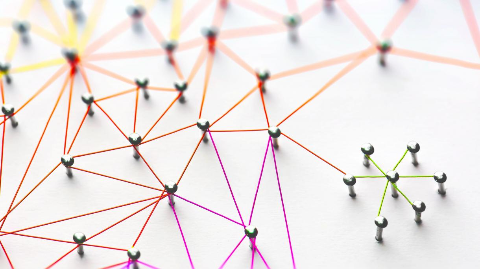
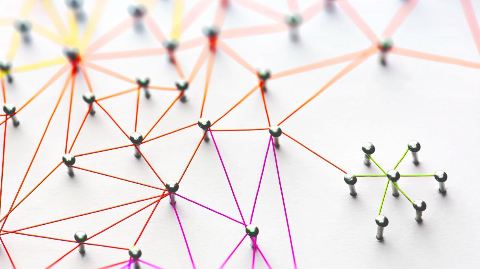
data: update content

diff --git a/content/antifeminismus-begegnen-demokratie-staerken.md b/content/antifeminismus-begegnen-demokratie-staerken.md
@@ -3,13 +3,16 @@ identifier = "antifeminismus-begegnen-demokratie-staerken"
 type = "event"
 title = "Antifeminismus begegnen –Demokratie stärken"
 subtitle = "Netzwerktagung"
-image = "https://calendar.boell.de/sites/default/files/styles/16d9_large/public/2022-08/NWT%202022_Kalender_Bild_ACHTUNG%20LIZENZ_Urheber_in%20optimarc-slash-shutterstock_All%20rights%20reserved_cropped.jpg?h=ed9b6fcf&itok=YaPKYHcq"
+image = "https://calendar.boell.de/sites/default/files/styles/16d9_large/public/2022-09/NWT22_Bild_erweiterte%20LIZENZ_Urheber_in%20optimarc-slash-shutterstock_All%20rights%20reserved_crop.jpg?h=3795e77a&itok=3WtRmjGS"
 start_date = "2022-10-17T09:30:00.000"
 end_date = "2022-10-17T18:00:00.000"
 category = "Tagung"
 url = "https://calendar.boell.de/de/event/antifeminismus-begegnen-demokratie-staerken"
-updated = "2022-09-07T17:19:23.000"
+updated = "2022-09-19T23:26:25.000"
 image_bucket = "https://storage.googleapis.com/fem-readup.appspot.com/antifeminismus-begegnen-demokratie-staerken.webp"
+source = "Heinrich Böll Stiftung"
+organizer = "Gunda-Werner-Institut für Feminismus und Geschlechterdemokratie"
 languages = ["Deutsch","Deutsche Gebärdensprache (DGS)"]
 [contact]
+[location]
 +++

diff --git a/content/if-i-cant-abort-its-not-my-revolution-feministische-kaempfe-lateinamerika.md b/content/if-i-cant-abort-its-not-my-revolution-feministische-kaempfe-lateinamerika.md
@@ -1,0 +1,16 @@
++++
+identifier = "if-i-cant-abort-its-not-my-revolution-feministische-kaempfe-lateinamerika"
+source = "Heinrich Böll Stiftung"
+url = "https://calendar.boell.de/de/event/if-i-cant-abort-its-not-my-revolution-feministische-kaempfe-lateinamerika"
+type = "event"
+title = "“If I can’t abort, it’s not my revolution” - Feministische Kämpfe in Lateinamerika"
+subtitle = "Vortrag und Diskussion mit Judith Goetz"
+start_date = "2022-09-27T19:00:00.000"
+end_date = "2022-09-27T21:30:00.000"
+category = "Vortrag"
+organizer = "Landesstiftung Sachsen (Weiterdenken)"
+updated = "2022-09-19T23:26:17.000"
+languages = []
+[contact]
+[location]
++++

diff --git a/content/das-netz-wird-weiblich.md b/content/das-netz-wird-weiblich.md
@@ -6,10 +6,13 @@ category = "Fachtagung"
 url = "https://calendar.boell.de/de/event/das-netz-wird-weiblich"
 identifier = "das-netz-wird-weiblich"
 type = "event"
-updated = "2022-09-07T17:19:25.000"
+updated = "2022-09-19T23:26:27.000"
 subtitle = "7. Netzpolitischer Fachtag"
 image = "https://calendar.boell.de/sites/default/files/styles/16d9_large/public/2022-09/VA%20Bild%20Netzfeminismus%20-%20pexels.jpg?h=43b93a8e&itok=5EIoE6mm"
 image_bucket = "https://storage.googleapis.com/fem-readup.appspot.com/das-netz-wird-weiblich.webp"
+source = "Heinrich Böll Stiftung"
+organizer = "Landesstiftung Thüringen"
 languages = ["Deutsch"]
 [contact]
+[location]
 +++

diff --git a/content/abortion-across-borders-abortion-without-borders.md b/content/abortion-across-borders-abortion-without-borders.md
@@ -1,0 +1,16 @@
++++
+identifier = "abortion-across-borders-abortion-without-borders"
+source = "Heinrich Böll Stiftung"
+url = "https://calendar.boell.de/de/event/abortion-across-borders-abortion-without-borders"
+type = "event"
+title = "ABORTION ACROSS BORDERS – ABORTION WITHOUT BORDERS"
+subtitle = "Internationales Podium zu transnationalen Abtreibungsreisen und zu grenzenloser Solidarität"
+start_date = "2022-09-30T18:00:00.000"
+end_date = "2022-09-30T20:00:00.000"
+category = "Veranstaltung"
+organizer = "Landesstiftung Sachsen (Weiterdenken)"
+updated = "2022-09-19T23:26:18.000"
+languages = []
+[contact]
+[location]
++++

diff --git a/content/demokratie-braucht-feminismus-antifeminismus-online-entgegentreten-11.md b/content/demokratie-braucht-feminismus-antifeminismus-online-entgegentreten-11.md
@@ -7,8 +7,11 @@ category = "Online-Seminar"
 url = "https://calendar.boell.de/de/event/demokratie-braucht-feminismus-antifeminismus-online-entgegentreten-11"
 identifier = "demokratie-braucht-feminismus-antifeminismus-online-entgegentreten-11"
 type = "event"
-updated = "2022-09-07T17:19:34.000"
+updated = "2022-09-19T23:26:35.000"
 image_bucket = "https://storage.googleapis.com/fem-readup.appspot.com/demokratie-braucht-feminismus-antifeminismus-online-entgegentreten-11.webp"
+source = "Heinrich Böll Stiftung"
+organizer = "GreenCampus"
 languages = ["Deutsch"]
 [contact]
+[location]
 +++

diff --git a/content/sonja-eismann-moments-and-movements-indigene-feminismen.md b/content/sonja-eismann-moments-and-movements-indigene-feminismen.md
@@ -7,9 +7,11 @@ category = "Lesung und Gespräch"
 url = "https://calendar.boell.de/de/event/sonja-eismann-moments-and-movements-indigene-feminismen"
 identifier = "sonja-eismann-moments-and-movements-indigene-feminismen"
 type = "event"
-updated = "2022-09-07T17:19:31.000"
+updated = "2022-09-19T23:26:33.000"
 subtitle = "Leinwandlesung und Gespräch"
 image_bucket = "https://storage.googleapis.com/fem-readup.appspot.com/sonja-eismann-moments-and-movements-indigene-feminismen.webp"
+source = "Heinrich Böll Stiftung"
 languages = ["Deutsch"]
 [contact]
+[location]
 +++

diff --git a/content/digitales-bundesfachseminar-zum-thema-klima-gerechtigkeit-genderperspektiven-für-eine-nachhaltige-zukunft.md b/content/digitales-bundesfachseminar-zum-thema-klima-gerechtigkeit-genderperspektiven-für-eine-nachhaltige-zukunft.md
@@ -5,7 +5,10 @@ end_date = "2022-10-14T18:00:00.000"
 url = "https://www.landesfrauenrat-berlin.de/veranstaltungen-in-berlin/?event_id1=6152"
 identifier = "digitales-bundesfachseminar-zum-thema-klima-gerechtigkeit-genderperspektiven-für-eine-nachhaltige-zukunft"
 type = "event"
-updated = "2022-09-18T21:33:13.000"
+updated = "2022-09-19T23:26:46.000"
+source = "Landesfrauenrat Berlin"
+organizer = "Deutscher Frauenrat; Harriet Taylor Mill-Institut für Ökonomie und Geschlechterforschung"
 languages = []
 [contact]
+[location]
 +++

diff --git a/content/feminismus-heute-3.md b/content/feminismus-heute-3.md
@@ -8,9 +8,12 @@ category = "Bildungsreise"
 url = "https://calendar.boell.de/de/event/feminismus-heute-3"
 identifier = "feminismus-heute-3"
 type = "event"
-updated = "2022-09-17T13:54:11.000"
+updated = "2022-09-19T23:26:13.000"
 subtitle = "Eine Reise ins politische und zivilgesellschaftliche Berlin"
 image_bucket = "https://storage.googleapis.com/fem-readup.appspot.com/feminismus-heute-3.webp"
+source = "Heinrich Böll Stiftung"
+organizer = "Landesstiftung Nordrhein-Westfalen"
 languages = ["Deutsch"]
 [contact]
+[location]
 +++

diff --git a/content/reproduktive-selbstbestimmung-im-iran-eine-materialistische-kritik-staat-und-religion-0.md b/content/reproduktive-selbstbestimmung-im-iran-eine-materialistische-kritik-staat-und-religion-0.md
@@ -6,8 +6,11 @@ category = "Diskussion"
 url = "https://calendar.boell.de/de/event/reproduktive-selbstbestimmung-im-iran-eine-materialistische-kritik-staat-und-religion-0"
 identifier = "reproduktive-selbstbestimmung-im-iran-eine-materialistische-kritik-staat-und-religion-0"
 type = "event"
-updated = "2022-08-31T00:07:12.000"
+updated = "2022-09-19T23:26:11.000"
 subtitle = "Vortrag und Diskussion"
+source = "Heinrich Böll Stiftung"
+organizer = "Landesstiftung Sachsen (Weiterdenken)"
 languages = []
 [contact]
+[location]
 +++

diff --git a/content/politischer-talk-zum-dritten-gleichstellungsbericht-digitalisierung-geschlechtergerecht-gestalten.md b/content/politischer-talk-zum-dritten-gleichstellungsbericht-digitalisierung-geschlechtergerecht-gestalten.md
@@ -5,7 +5,10 @@ end_date = "2022-09-20T18:00:00.000"
 url = "https://www.landesfrauenrat-berlin.de/veranstaltungen-in-berlin/?event_id1=6185"
 identifier = "politischer-talk-zum-dritten-gleichstellungsbericht-digitalisierung-geschlechtergerecht-gestalten"
 type = "event"
-updated = "2022-09-18T21:33:13.000"
+updated = "2022-09-19T23:26:46.000"
+source = "Landesfrauenrat Berlin"
+organizer = "Deutscher Frauenrat; Harriet Taylor Mill-Institut für Ökonomie und Geschlechterforschung"
 languages = []
 [contact]
+[location]
 +++

diff --git a/content/urania-kontrovers-2.md b/content/urania-kontrovers-2.md
@@ -8,8 +8,13 @@ start_date = "2022-10-06T19:30:00+02:00"
 end_date = "2022-10-06T19:30:00+02:00"
 category = "Podiumsdiskussion"
 url = "https://www.urania.de/urania-kontrovers-2"
-updated = "2022-09-17T13:55:23.000"
+updated = "2022-09-19T23:27:23.000"
 image_bucket = "https://storage.googleapis.com/fem-readup.appspot.com/urania-kontrovers-2.webp"
+source = "Urania Berlin e.V."
+organizer = "Urania Berlin e.V."
 languages = []
 [contact]
+location_street = "An der Urania 17"
+location_city = "10787 Berlin"
+[location]
 +++

diff --git a/content/urania-kontrovers-3.md b/content/urania-kontrovers-3.md
@@ -8,8 +8,13 @@ start_date = "2022-11-18T19:30:00+01:00"
 end_date = "2022-11-18T19:30:00+01:00"
 category = "Podiumsdiskussion"
 url = "https://www.urania.de/urania-kontrovers-3"
-updated = "2022-09-17T13:55:25.000"
+updated = "2022-09-19T23:27:24.000"
 image_bucket = "https://storage.googleapis.com/fem-readup.appspot.com/urania-kontrovers-3.webp"
+source = "Urania Berlin e.V."
+organizer = "Urania Berlin e.V."
 languages = []
 [contact]
+location_street = "An der Urania 17"
+location_city = "10787 Berlin"
+[location]
 +++
